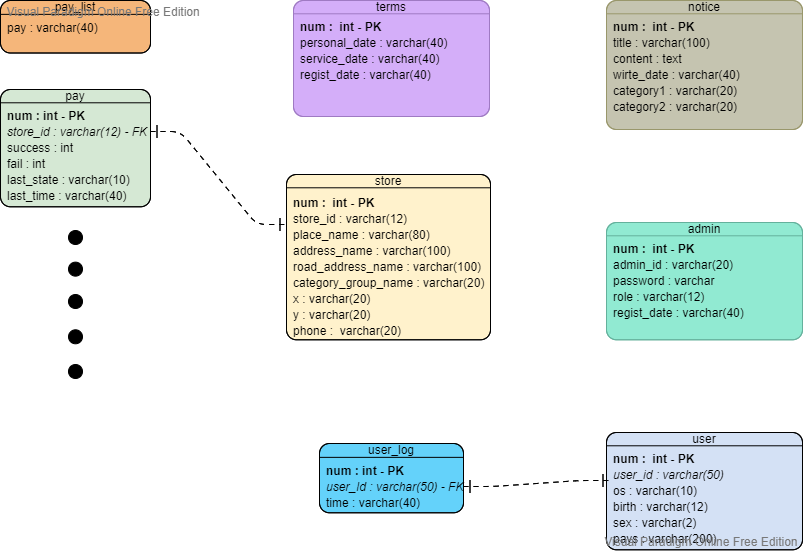
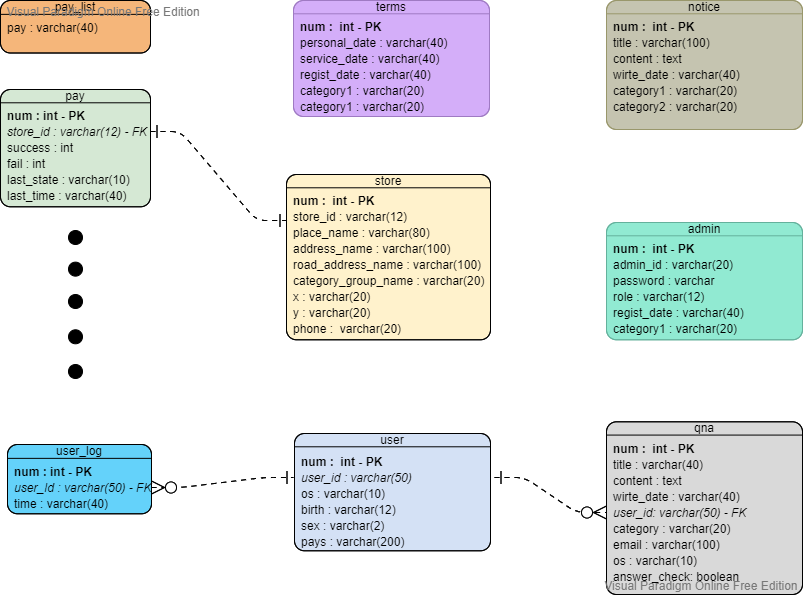
v1.1.1

diff --git a/src/qna/qna.mapper.ts b/src/qna/qna.mapper.ts
@@ -1,4 +1,4 @@
-import { Inject, Injectable } from '@nestjs/common';
+import { HttpException, Inject, Injectable } from '@nestjs/common';
 import { Qna } from 'src/entities/qna.entity';
 import { Repository } from 'typeorm';
 import { CreateQnaDto } from './dto/create-qna.dto';
@@ -34,10 +34,8 @@ export class QnaMapper {
   async findQna(ct, asnwer_check, page) {
     const viewCount = 10;
     const startCount = (page - 1) * viewCount;
-    const result = {
-      notice: [],
-    };
-    result['notice'] = await this.qnaRepository
+    const result = {};
+    result['qna'] = await this.qnaRepository
       .createQueryBuilder()
       .select(`SQL_CALC_FOUND_ROWS *`)
       .where(`(category = ${ct})`)
@@ -57,15 +55,33 @@ export class QnaMapper {
 
   async updateQna(num, updateQnaDto) {
     const set = {};
+    const id = updateQnaDto['user_id'];
     for (const element in updateQnaDto) {
-      if (element != null) set[element] = updateQnaDto[element];
+      if (element === 'user_id') continue;
+      if (element === 'key') continue;
+      if (updateQnaDto[element] != null) set[element] = updateQnaDto[element];
     }
+    // console.log(set);
     const result = await this.qnaRepository
       .createQueryBuilder()
       .update(Qna)
       .set(set)
-      .where(`num = ${num}`)
+      .where(`num = ${num} AND user_id = '${id}'`)
       .execute();
+
+    if (!result['affected'])
+      throw new HttpException('조건에 맞는 게시글이 없습니다.', 400);
+    return true;
+  }
+
+  async deleteQna(num, user_id) {
+    const result = await this.qnaRepository
+      .createQueryBuilder()
+      .delete()
+      .where(`num = ${num} AND user_id = '${user_id}'`)
+      .execute();
+    if (!result['affected'])
+      throw new HttpException('조건에 맞는 게시글이 없습니다.', 400);
     return true;
   }
 }

diff --git a/src/qna/qna.controller.ts b/src/qna/qna.controller.ts
@@ -14,13 +14,15 @@ import { UpdateQnaDto } from './dto/update-qna.dto';
 import { AuthGuard } from '@nestjs/passport';
 import { GetUser } from 'src/auth/get-user.decorator';
 import { adminPipe } from 'src/auth/auth.pipe';
+import { keyCheck } from 'src/auth/keyCheck-decorators';
+import { keyPipe } from 'src/auth/keyPipes';
 
 @Controller('qna')
 export class QnaController {
   constructor(private readonly qnaService: QnaService) {}
 
   @Post()
-  create(@Body() createQnaDto: CreateQnaDto) {
+  create(@Body() createQnaDto: CreateQnaDto, @keyCheck(keyPipe) key) {
     return this.qnaService.createQna(createQnaDto);
   }
 
@@ -32,19 +34,18 @@ export class QnaController {
   ) {
     return this.qnaService.findQna(ct, answer_check, page);
   }
-  @UseGuards(AuthGuard())
+
   @Patch(':num')
   update(
     @Param('num') num: number,
     @Body() updateQnaDto: UpdateQnaDto,
-    @GetUser(adminPipe) admin,
+    @keyCheck(keyPipe) key,
   ) {
     return this.qnaService.updateQna(num, updateQnaDto);
   }
 
-  // @Delete(':num')
-  // @UseGuards(AuthGuard())
-  // remove(@Param('num') num: number, @GetUser(adminPipe) admin) {
-  //   return this.qnaService.removeQna(num);
-  // }
+  @Delete(':num')
+  delete(@Param('num') num: number, @Body('user_id') user_id: string) {
+    return this.qnaService.deleteQna(num, user_id);
+  }
 }

diff --git a/src/qna/qna.service.ts b/src/qna/qna.service.ts
@@ -17,11 +17,11 @@ export class QnaService {
     return await this.qnaMapper.findQna(ct, answer_check, page);
   }
 
-  async updateQna(id: number, updateQnaDto: UpdateQnaDto) {
-    return await this.qnaMapper.updateQna(id, updateQnaDto);
+  async updateQna(num: number, updateQnaDto: UpdateQnaDto) {
+    return await this.qnaMapper.updateQna(num, updateQnaDto);
   }
 
-  // remove(id: number) {
-  //   return `This action removes a #${id} qna`;
-  // }
+  async deleteQna(num: number, user_id) {
+    return this.qnaMapper.deleteQna(num, user_id);
+  }
 }

diff --git a/src/entities/qna.entity.ts b/src/entities/qna.entity.ts
@@ -25,10 +25,10 @@ export class Qna {
   @Column({ type: 'varchar', length: 40 })
   write_date: string;
 
-  @Column({ type: 'varchar', length: 50 })
+  @Column({ type: 'varchar', length: 100 })
   email: string;
 
-  @Column({ type: 'varchar', length: 20 })
+  @Column({ type: 'varchar', length: 10 })
   os: string;
 
   @Column({ type: 'bool', default: false })

diff --git a/src/qna/dto/create-qna.dto.ts b/src/qna/dto/create-qna.dto.ts
@@ -30,4 +30,7 @@ export class CreateQnaDto {
 
   @Allow()
   answer_check: boolean;
+
+  @Allow()
+  key: string;
 }

diff --git a/README.md b/README.md
@@ -4,7 +4,9 @@
 
 [https://api.tapplace.cloud](https://api.tapplace.cloud)          “key”:”1234”
 
-## 변경사항(1.0 → 1.1)
+## 변경사항
+
+### 1.0 → 1.1
 
 1. store/around 리턴값 중 피드백 없는 store 포함 안하게 변경
 2. 공지사항 테이블 ‘notice’ 생성 & CRUD API 추가
@@ -13,6 +15,11 @@
 5. 결제수단 ‘toss’ 추가
 6. 시작 화면과 /userlog 시 반환되는 paylist 데이터 삭제( /userlog 리턴값 terms 데이터로 대체)
 7. 배열로 되어있던 리턴타입 json 형식으로 통일
+
+### 1.1 → 1.1.1
+
+1. 문의하기 테이블 ‘qna’ 생성 & CRUD API 추가
+2. 프렌차이즈 데이터 DB 이식
 
 ## Pay 리스트 (= ~pay 테이블명 && pay 컬럼 값)
 
@@ -59,6 +66,10 @@
 
 ![7.png](Tapplace%20API%20v1%201%20c0fd668530054f399017c32a0f5ee75a/7.png)
 
+### 화면7) 문의하기
+
+![8.png](Tapplace%20API%20v1%201%20c0fd668530054f399017c32a0f5ee75a/8.png)
+
 ### API
 
 | Method | Endpoint | Request body | Return | When to use | 구현 현황 |
@@ -73,6 +84,10 @@
 | POST | /pay/list/more | { store_id, pays[ ] } | { feedback[ ] } | 피드백 → 결제수단 더보기 | O |
 | GET | /store/:store_id |  | { store(T) } | store_id에 맞는 store 가져옴 ( 공유하기 할때 meta데이터 표시용) | O |
 | GET | /notice/:category1/:category2/:page |  | { total_count, notice [ ] } | 공지사항/자주하는 질문 | O |
+| GET | /qna/:category/:answer_check/:page |  | { total_count, qna [ ] } | 문의하기 불러오기 | O |
+| POST | /qna | { qna(T), key } | true or ERROR | 문의하기 등록 | O |
+| PATCH | /qna/:num | { qna(T), key } (qna 테이블에서 변경하고 싶은 컬럼만 추가하면 됨. user_id는 필수로 들어가야함) | true or ERROR | 문의하기 수정 | O |
+| DELETE | /qna/:num | { user_id, key } | true or ERROR | 문의하기 삭제 | O |
 
 ### 개발할 때만  쓰는 API
 
@@ -95,7 +110,8 @@
 
 | 이름 | 설명 | 예시 |
 | --- | --- | --- |
-| 테이블명(T) | 테이블명의 컬럼이 전부 포함된 값(num은 제외) | user(T) = user_id, os, birth, pays   ex) { user(T), key } = { user_id, os, birth, pays, key } |
+| 테이블명(T) | 테이블명의 컬럼이 전부 포함된 값(num과 기본값이 있는 컬럼 제외) | user(T) = user_id, os, birth, pays   
+ex) { user(T), key } = { user_id, os, birth, pays, key } |
 | key | GET 이외의 방식에 전부 넣어야 하는 값 |  |
 | paylist[ ] | pay_list 테이블의 데이터 전부 담은 배열 | paylist : [ ”apple_visa”, “apple_master”, “kakaopay” ….. ] |
 | true or ERROR | 요청 성공 시 true 리턴 , 실패시 ERROR 발생 |  |
@@ -103,16 +119,46 @@
 | pays[ ] | pay_list 테이블 데이터 중 일부를 담은 배열 | pays : [ ”apple_visa”, “payco” ] |
 | distance | 주변 찾기 시 반경으로 설정된 값 (number) | distance : 1.5 (반경이 1.5km로 설정되었을 때) |
 | x1, y1 | 주변 찾기 시 사용자 현재 위치 값 |  |
-| feedback[ ] | 해당 store의 pay별 feedback 현황 | feedback : [ { pay(T), pay, exist }(feedback 결과가 있는 pay), { pay, exist }(feedback 결과가 없는 pay)  ] |
-| user_feedback[ ] | feedback시 pay별 pay, exist, feed를 담은 값 | feedbacks : [ { “pay” : “apple_visa”, “exist” : false, “feed” : true }, { “pay” : “naverpay”, “exist” : true, “feed” : false } ] |
+| feedback[ ] | 해당 store의 pay별 feedback 현황 | feedback : [ 
+{ pay(T), pay, exist }(feedback 결과가 있는 pay),
+{ pay, exist }(feedback 결과가 없는 pay)  ] |
+| user_feedback[ ] | feedback시 pay별 pay, exist, feed를 담은 값 | feedbacks : [
+ { “pay” : “apple_visa”,
+ “exist” : false, 
+ “feed” : true },
+ { “pay” : “naverpay”,
+ “exist” : true,
+ “feed” : false } ... ] |
 | exist | pay종류 별 기존 데이터가 존재하는지 여부값 [ true, false ] | exist : true = 기존 데이터 있음 ( pay(T)의 데이터 그대로 쓰면 됨)                                                                       exist :  false = 기존 데이터 없음                                                            |
 | feed | 피드백시 success(true)또는 fail(false) 여부 값 [ true, false ] | feed : true = DB success +1  fail :  false = DB fail +1 |
-| feedback_result | 피드백 후 결과값 | feedback_result : [ { “pay” : “naverpay”, “success”:10, “fail” : 2, “last_state” : “success } … ]  |
-| :category1 | notice - 공지사항, qna - 자주 묻는 질문 | /notice/qna/:category2/:page |
-| :category2 | all - category2 전부, 현재는 category2 가 정해진게 없어서 all로만 가능 | /notice/:category1/all/:page |
+| feedback_result | 피드백 후 결과값 | feedback_result : [ 
+{ “pay” : “naverpay”,
+ “success”:10,
+ “fail” : 2,
+ “last_state” : “success } … ]  |
+| :category1 (notice) | notice - 공지사항, faq - 자주 묻는 질문 | /notice/qna/:category2/:page |
+| :category2 (notice) | all - category2 전부, 현재는 category2 가 정해진게 없어서 all로만 가능 | /notice/:category1/all/:page |
 | :page | 한 화면에 표시될 페이지, 현재 1페이지당 10개로 설정. page 1 이면 1~10번 게시물, 2이면 11~20번 게시물 | /notice/:category1/:category2/1 |
 | total_count | category1,category2 조건에 맞는 총 게시글 수 | total_count : “12” |
-| notice[ ] | category1,category2,page 조건에 맞는 notice(T) | notice : [ { “num” : 1, “title” : “공지사항1”, “content” : “공지사항 내용”, “wriete_date” : “2022-09-04 06:40:30”, “category1” : “notice”, “category2” : “” ] |
+| notice[ ] | category1,category2,page 조건에 맞는 notice(T) | notice : [ 
+ { “num” : 1,
+ “title” : “공지사항1”,
+ “content” : “공지사항 내용”,
+ “wriete_date” : “2022-09-04 06:40:30”,
+ “category1” : “notice”,
+ “category2” : “” } … ] |
+| category (qna) | qna - 문의하기, edit - 수정제안, all - 답변, 미답변 전부 | /qna/edit/:answer_check/:page |
+| answer_check | false 또는 0 - 미답변, true 또는 1 - 답변완료, all - 답변,미답변 전부 | /qna/:category/true/:page |
+| qna[ ] | category,answer_check,page 조건에 맞는 qna(T) | qna : [ 
+{"num": 6,
+"user_id": "11",
+"category": "edit",
+"title": "문의사항입니다3",
+"content": "답변부탁드려요",
+"write_date": "2022-09-13 08:24:35",
+"answer_check": 1,
+"email": "tlqhrm@naver.com",
+"os": "android" } …] |
 | 나머지  | DB 컬럼의 이름에 맞는 값 |  |
 
 ## 관리자 API
@@ -192,7 +238,7 @@
 | title | string | 글 제목 |
 | content | string | 글 내용 |
 | write_date | string | 글 작성일 |
-| category1 | string, 값 [ ‘notice’, ‘qna’ ] | 공지사항, 자주 하는 질문  |
+| category1 | string, 값 [ ‘notice’, ‘faq’ ] | 공지사항, 자주 하는 질문  |
 | category2 | string, 값 [ ‘all’ ] | 현재는 all 만 가능 |
 
 ### terms 테이블
@@ -213,3 +259,17 @@
 | password | string | 비밀번호 |
 | role | string, 값 [ ‘admin’ ] | 권한 |
 | regist_date | string | 등록 일자 |
+
+### qna 테이블
+
+| 컬럼 | 특성 | 설명 |
+| --- | --- | --- |
+| num | number, 기본키 | 자동으로 증가 되는 PK용 인조키 |
+| title | string | 글 제목 |
+| content | string | 글 내용 |
+| write_date | string | 글 작성일 |
+| user_id | string | 사용자 기기 고유id |
+| category | string, 값 [ ‘qna’, ‘edit’ ] | qna : 문의하기 , edit : 수정제안 |
+| email | string | 답변 받을 이메일 |
+| os | string | 유저 os |
+| answer_check | boolean, 기본값 : false(0) | true(1) : 답변완료, false(0) : 답변대기중 |
